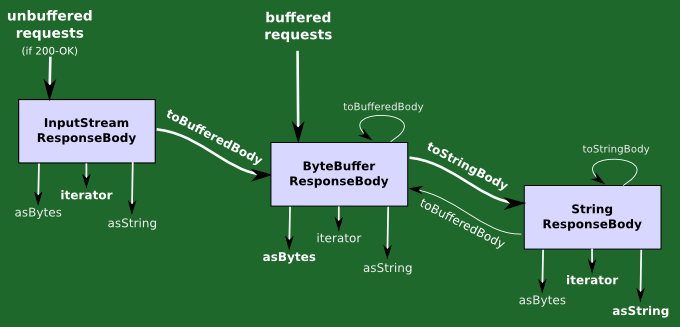
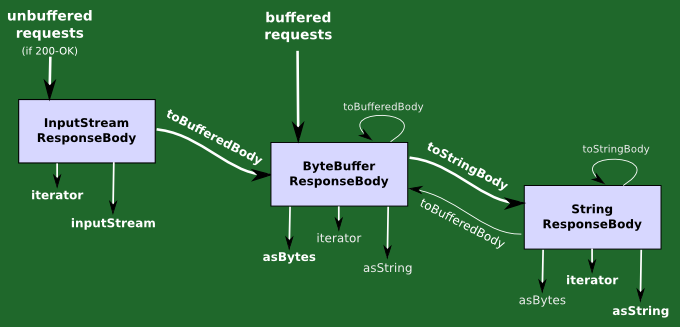
v0.21.5 - documentation

Changed region(s): [[0.0, 0.4893, 0.2471, 0.7034]]

diff --git a/changelog.md b/changelog.md
@@ -1,3 +1,19 @@
+#### Wed, 10 Jul 2013
+* v0.21.5 - revised ResponseBody implementations to be more flexible and orthogonal
+
+
+#### Tue, 09 Jul 2013
+* v0.21.5 - more documentation
+
+
+#### Tue, 09 Jul 2013
+* v0.21.5 - more documentation
+
+
+#### Mon, 08 Jul 2013
+* v0.21.5 - added more documentation
+
+
 #### Thu, 04 Jul 2013
 * v0.21.4 - ByteBufferResponseBody can now cope with bad Content-Length headers (e.g. from Apache1)
 
